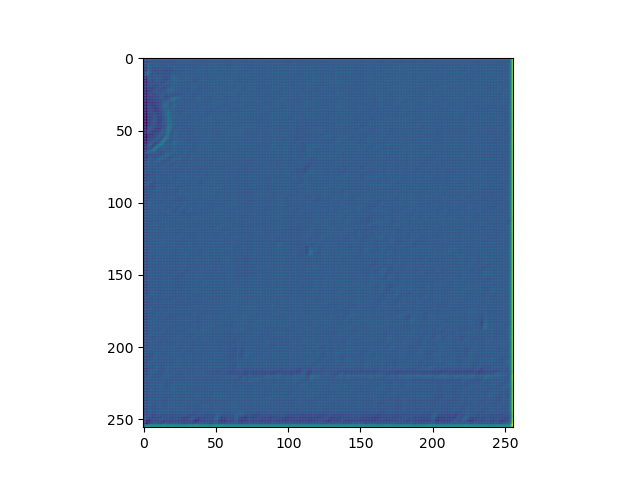
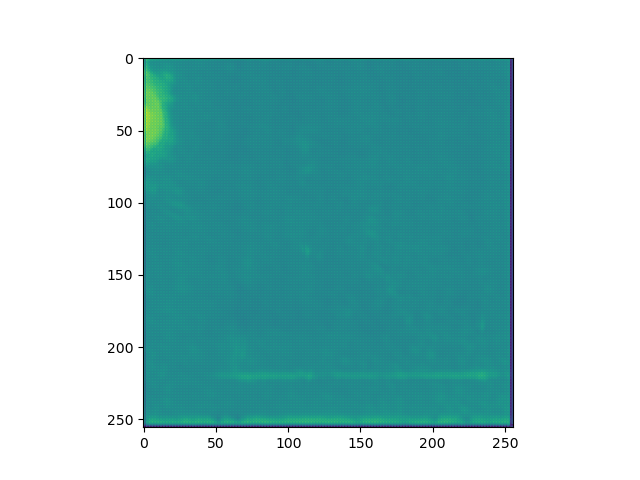
ckpt at loss min

diff --git a/run_training.py b/run_training.py
@@ -38,8 +38,8 @@ if __name__ == '__main__':
     logger = TensorBoardLogger('.', version=args.version)
     model_ckpt = ModelCheckpoint(dirpath=f'lightning_logs/{args.version}/checkpoints',
                                  save_top_k=1,
-                                 monitor='iou_val',
-                                 mode='max')
+                                 monitor='loss_val',
+                                 mode='min')
     lr_monitor = LearningRateMonitor()
 
     trainer = Trainer(accelerator='gpu',
